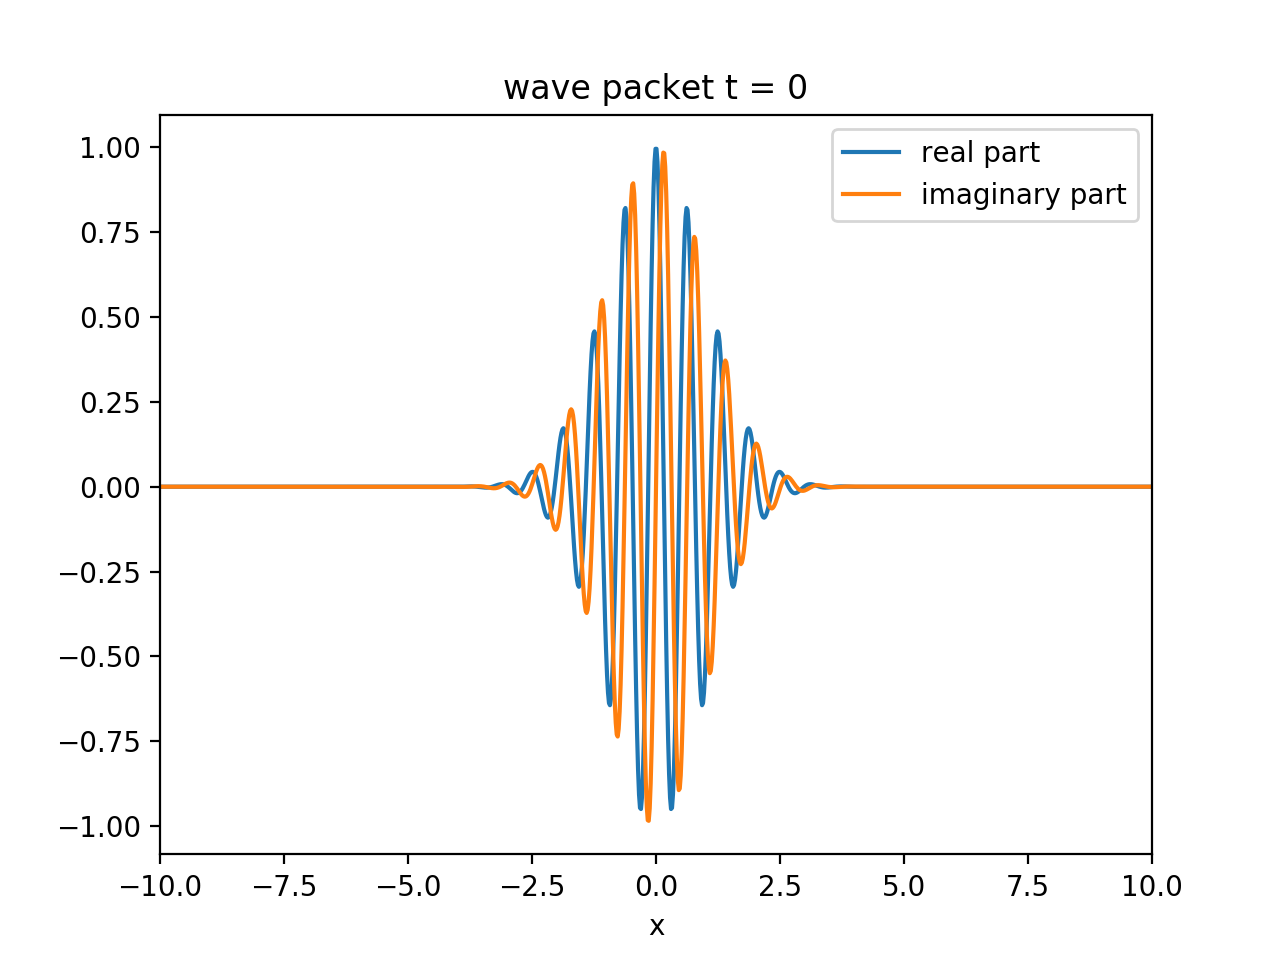
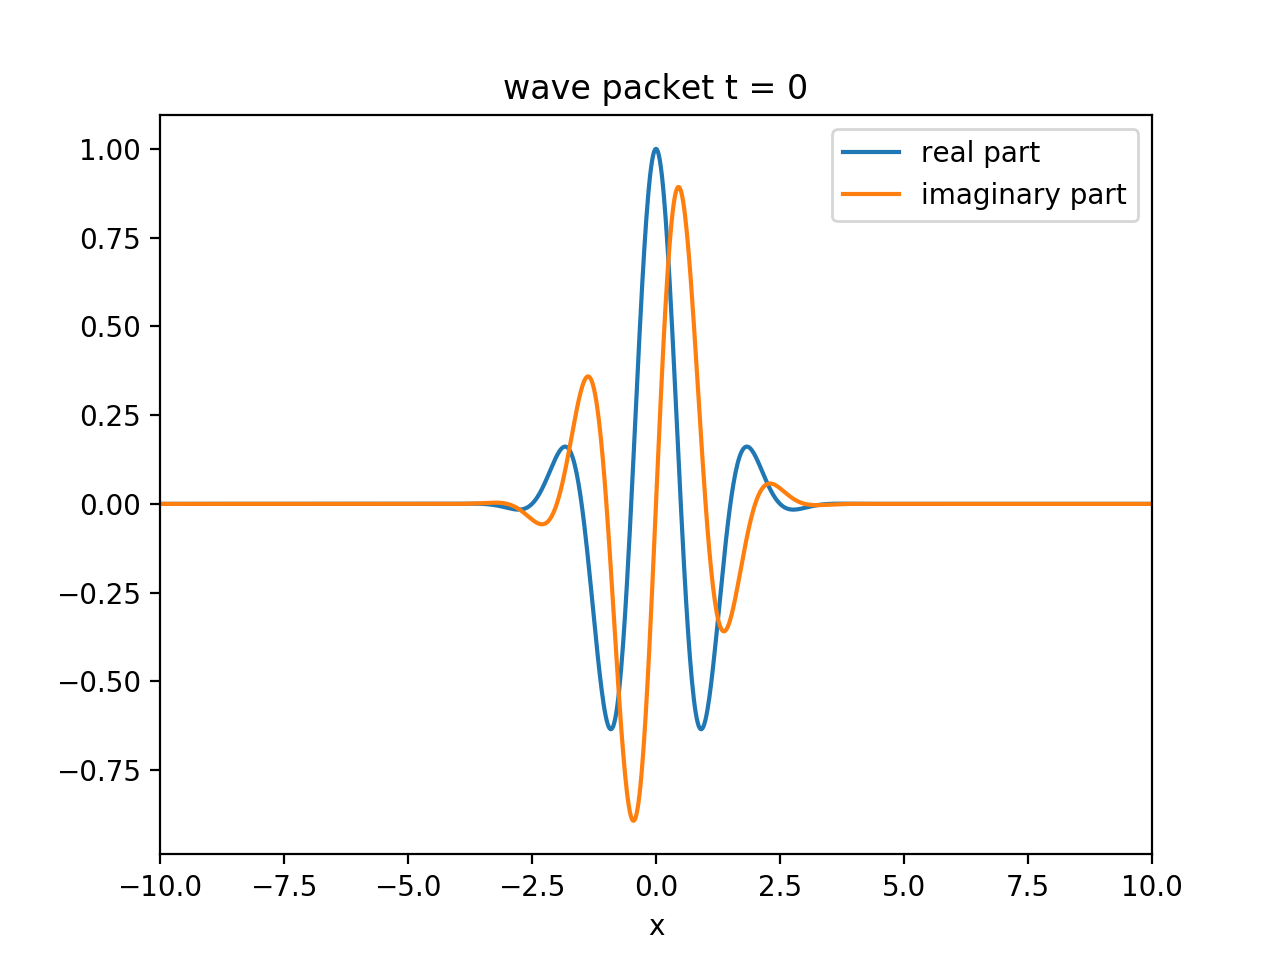
wave packet propagates! added .gitignore

diff --git a/rfap.py b/rfap.py
@@ -1,5 +1,6 @@
 # PHS3350
 # Week 2 - wave packet and RFAP -
+# "what I cannot create I cannot understand" - R. Feynman. 
 # Ana Fabela Hinojosa, 13/03/2021
 import os
 from pathlib import Path
@@ -13,53 +14,56 @@ plt.rcParams['figure.dpi'] = 200
 
 folder = Path('wavepacket_time_evolution')
 os.makedirs(folder, exist_ok=True)
+os.system(f'rm {folder}/*.png')
 
 # hbar = 1.0545718e-34 # [Js]
 hbar = 1
+m = 1
 
 𝜎 = 1
 x_max = 10
-x = np.linspace(-x_max,x_max, 1024)
+x = np.linspace(-x_max, x_max, 1024, endpoint=False)
 n = x.size
-x_step = 0.1
+x_step = x[1] - x[0]
 
 # oscillations per unit of space
-k0 = 10 
+k0 = 2 * np.pi / x_max * 5
 # For Fourier space
 k = 2 * np.pi * np.fft.fftfreq(n, x_step)
 
 wave = np.exp(- x**2 / (2*𝜎**2)) * np.exp(1j*k0*x)
+# wave = np.exp(1j*k0*x)
 
 # Schrodinger equation (or first order time derivarive)
 def Schrodinger_eqn(t, Ψ):
-    return (-1j / hbar) * -hbar**2/(2 * m) * ifft((-k**2) * fft(Ψ)) + (-1j / hbar) * 1j*x**3 * Ψ
+    return (1j / hbar) * hbar**2/(2 * m) * ifft(-(k**2) * fft(Ψ)) #+ (-1j / hbar) * 1j*x**3 * Ψ
 
 def Runge_Kutta(t, delta_t, Ψ):
     k1 = Schrodinger_eqn(t, Ψ)
     k2 = Schrodinger_eqn(t + delta_t / 2, Ψ + k1 * delta_t / 2) 
     k3 = Schrodinger_eqn(t + delta_t / 2, Ψ + k2 * delta_t / 2) 
-    k4 = Schrodinger_eqn(t + delta_t, Ψ + k3 * delta_t / 2) 
+    k4 = Schrodinger_eqn(t + delta_t, Ψ + k3 * delta_t) 
     return Ψ + (delta_t / 6) * (k1 + 2 * k2 + 2 * k3 + k4)
-
 
 i = 0
 t = 0
 t_final = 1
-delta_t = 0.01
-m = 1
+delta_t = 0.0001
+
 while t < t_final:
 
-    plt.plot(x, np.real(wave), label="real part")
-    plt.plot(x, np.imag(wave), label="imaginary part")
-    plt.xlim(-x_max, x_max)
-    plt.legend()
-    plt.xlabel("x")
-    plt.title(f"wave packet t = {i}")
+    if not i % 100:
+        plt.plot(x, np.real(wave), label="real part")
+        plt.plot(x, np.imag(wave), label="imaginary part")
+        plt.xlim(-x_max, x_max)
+        plt.legend()
+        plt.xlabel("x")
+        plt.title(f"wave packet t = {i}")
 
-    plt.savefig(folder/f'{i:04d}.png')
-    # plt.show()
-    plt.clf()
-    
+        plt.savefig(folder/f'{i:04d}.png')
+        # plt.show()
+        plt.clf()
+        
     wave = Runge_Kutta(t, delta_t, wave)
     i += 1
     t += delta_t
